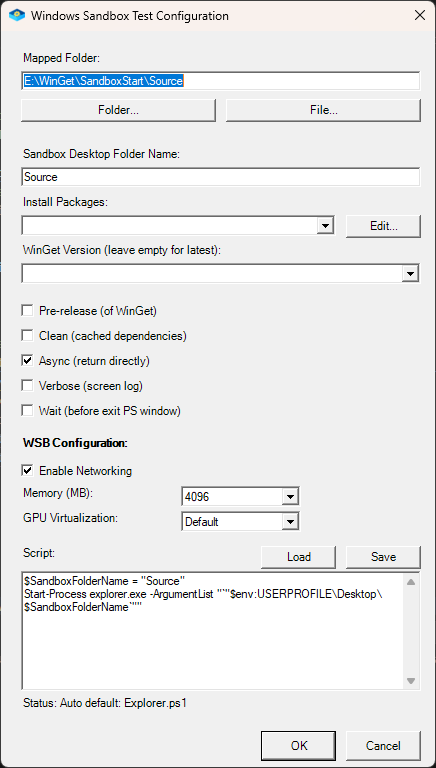
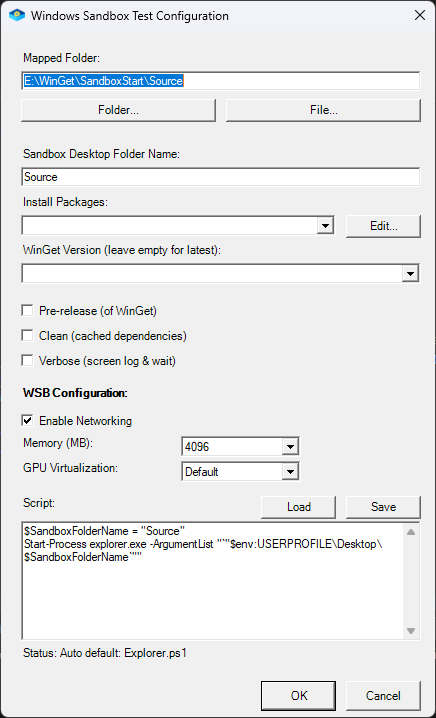
Always Async, Verbose Contains Wait

diff --git a/README.md b/README.md
@@ -63,12 +63,10 @@ The GUI dialog allows you to configure:
 ### 🔧 WinGet Options
 - **WinGet Version**: Use the drop-down list or leave blank for latest
 - **Prerelease**: Use pre-release of WinGet
-- **Clean**: Clear cached dependencies before starting
 
 ### ⚡ Runtime Options
-- **Async**: Launch sandbox and return immediately (don't wait for completion)
-- **Verbose**: Show detailed progress information
-- **Wait**: Wait for keypress before closing PS window (useful for reading screen log)
+- **Clean**: Clear cached dependencies before starting
+- **Verbose**: Show detailed progress information and wait for keypress before closing PS window
 
 ### 🖥 WSB Configuration
 - **Enable Networking**: Control network access in sandbox (required for WinGet, if unchecked WinGet handling is skipped)
